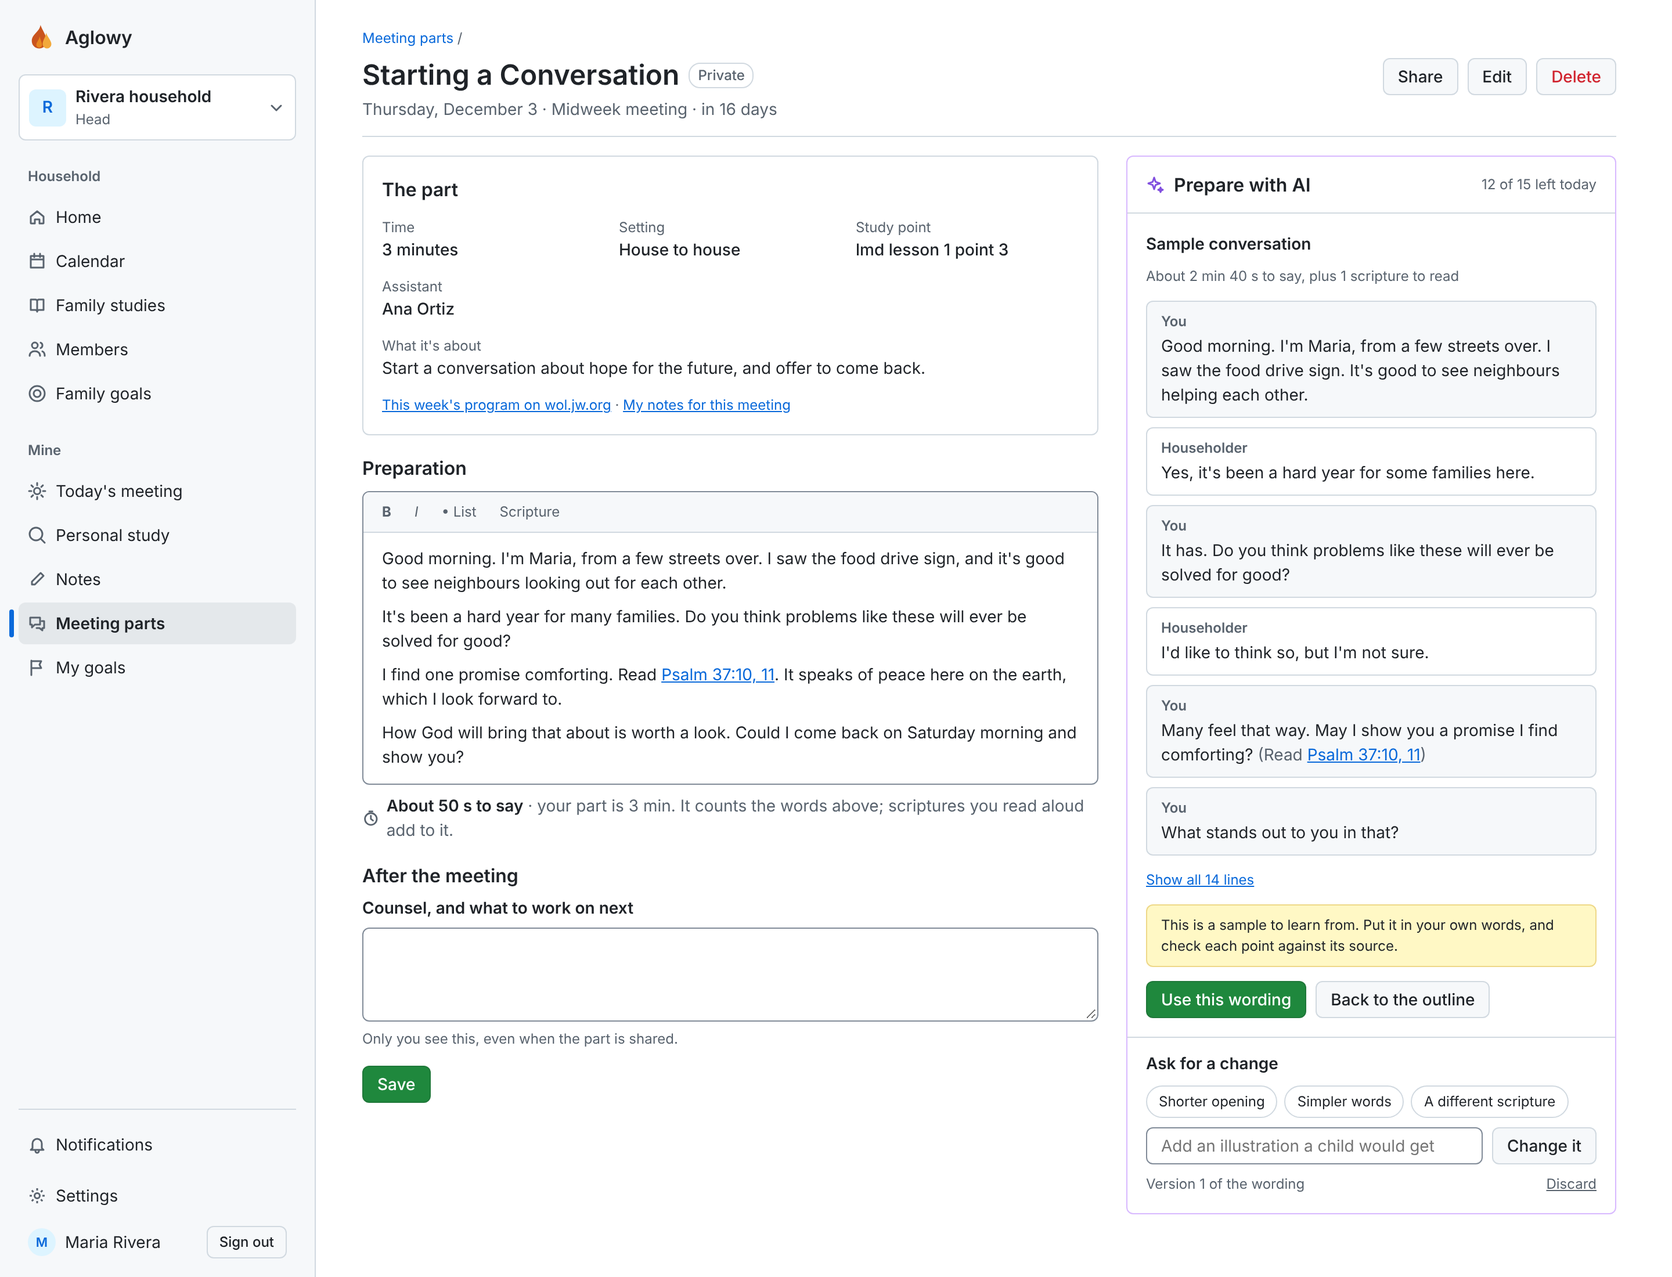
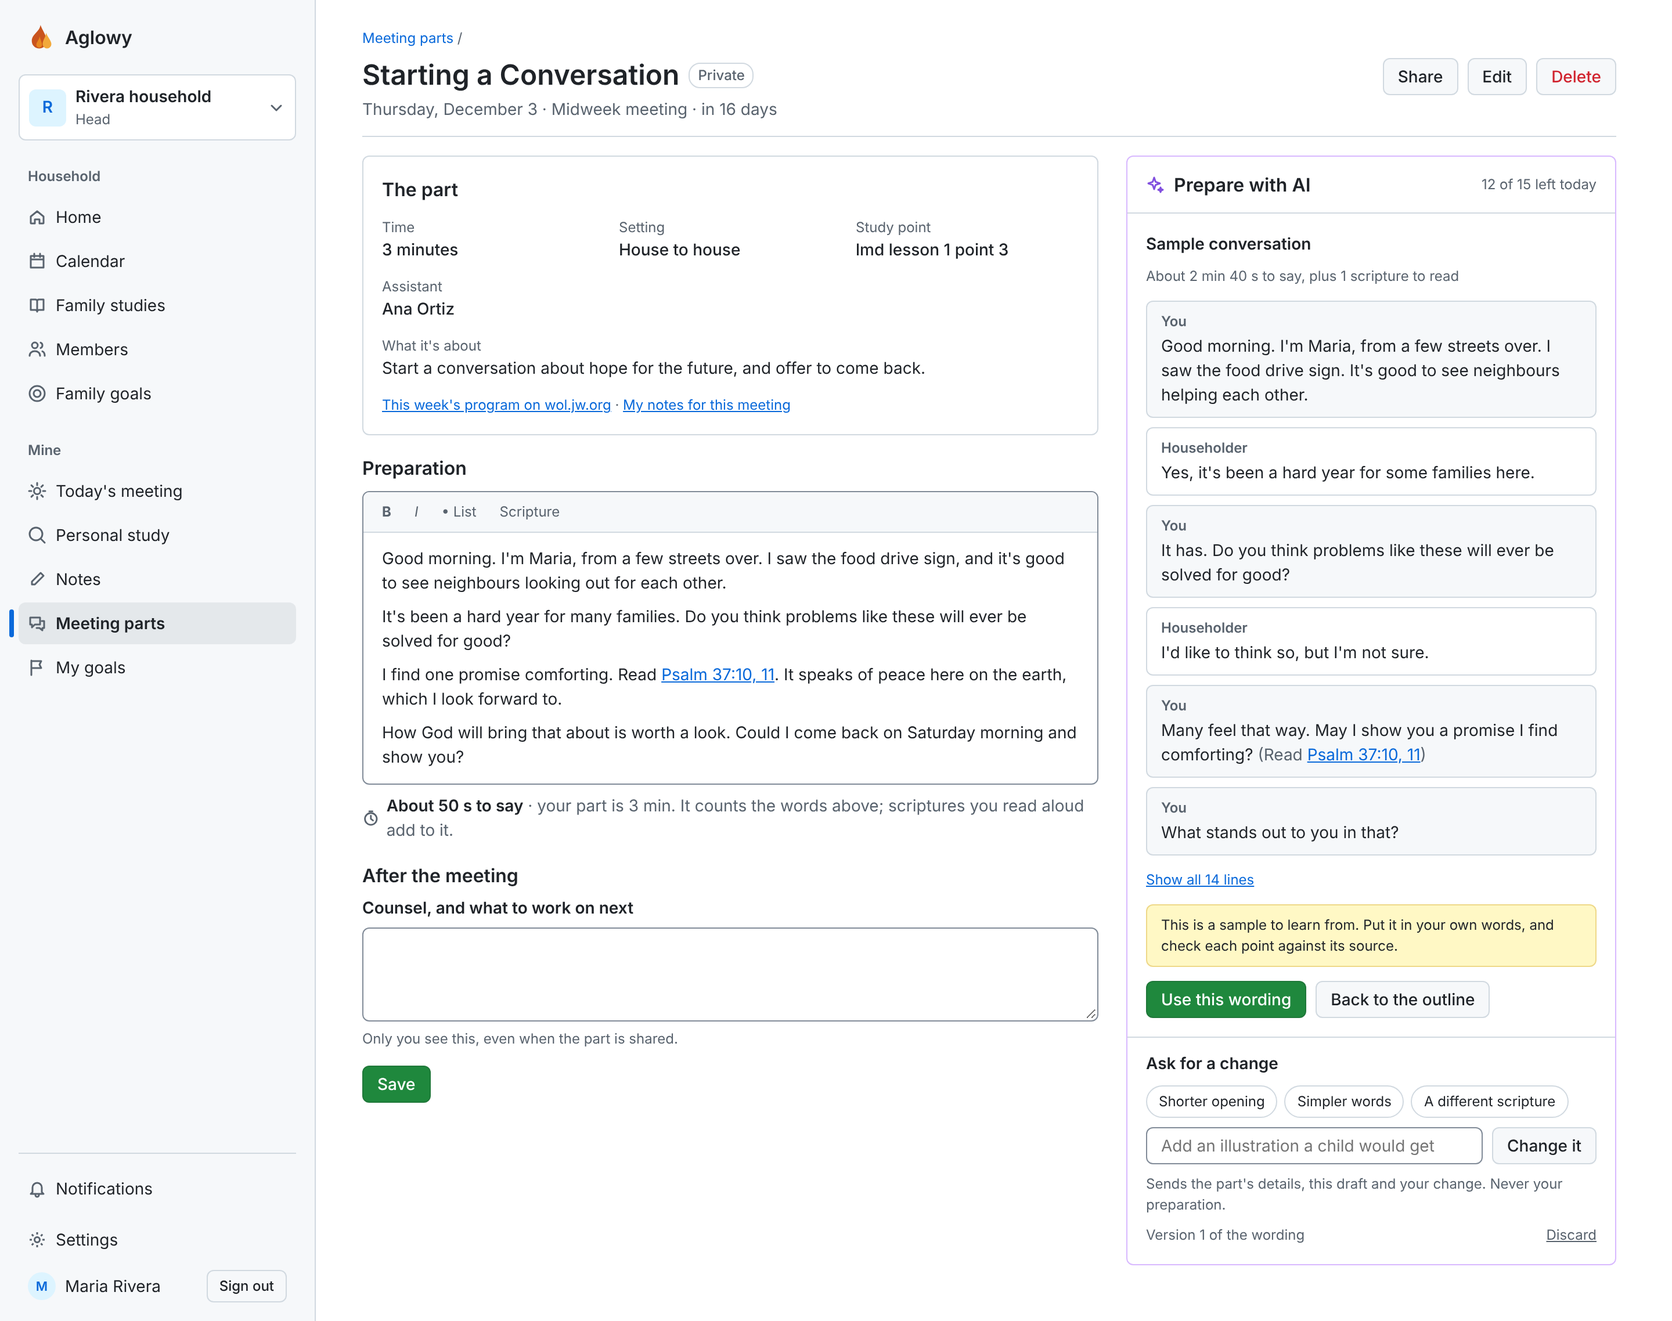
Meeting parts design: one chat per draft, a line per part, what the verse check catches
Review findings on #286:

- Each AI draft has its own chat, as a family study draft does, instead of
  one chat per part. The 60-day purge then deletes a draft with its chat and
  leaves nothing of it behind in a chat a newer draft keeps. No
  context_exchanges, no meeting_parts.chat_id, and no new purge code.
- A change, or sample wording from an outline, sends the checked draft it
  revises, so the AI changes the version on screen. The change box says so
  (frames redrawn).
- The meeting note shows a line for each part that week.
- Trap 4 and ai.md safety measure 5 say what the checks catch: reference
  fields that don't parse, and quotations of more than 5 words. Shorter
  quotations and unquoted verse text rest on the instructions.

Claude-Session: https://claude.ai/code/session_0134z7YhxhHiNN5ED15LNroy

diff --git a/docs/design/meeting-parts.md b/docs/design/meeting-parts.md
@@ -81,7 +81,6 @@ Checked against the jw.org meeting instructions (S-38-E 8/26). The meeting workb
 | `study_point` | string | nullable, encrypted, 80 characters at most | "th study 3", "lmd lesson 1 point 3" |
 | `assistant` | string | nullable, encrypted, 80 characters at most | A name only. It's someone else's, so nothing more is kept |
 | `counsel` | text | nullable, encrypted, 2,000 characters at most | After the meeting |
-| `chat_id` | uuid | FK → chats, nullable, unique, `on_delete: :nullify` | The AI conversation, made with the first draft |
 
 - `has_rich_text :preparation, encrypted: true`, with `ScriptureLinkable`, so references become scripture links on save
 - `include Shareable`, with `MeetingPart::Sharing` (`meeting_part_id`, `household_id`, unique together), like `MeetingNote::Sharing`. Leaving a household ends the shares there for good (`Membership#deactivate`, as for notes and goals)
@@ -106,6 +105,7 @@ One AI request and its checked reply.
 | Column | Type | Constraint | Why |
 | --- | --- | --- | --- |
 | `meeting_part_id` | uuid | FK, not null, `on_delete: :cascade` | |
+| `chat_id` | uuid | FK → chats, not null, unique, `on_delete: :cascade` | Its own conversation: one request and one reply, as a family study draft has. The purge deletes the chat, and the draft goes with it |
 | `user_id` | uuid | FK → users, not null | Who asked; the limit is per person |
 | `kind` | string | not null, check in (`outline`, `wording`) | What was asked for |
 | `request` | text | nullable, encrypted, 500 characters at most | "Anything it should know?", or the change asked for |
@@ -114,6 +114,8 @@ One AI request and its checked reply.
 | `result` | jsonb | encrypted, nullable until drafted | The checked reply fields |
 | `sources` | jsonb | not null, default `[]` | `[{url, title}]` that passed `Ai::SourceLink` |
 
+- `belongs_to :chat, dependent: :destroy`, so deleting a part deletes its drafts' chats with them, not at the next purge.
+- `revises` must be a `drafted` draft of the same part: of the same kind for a change, or an outline for sample wording.
 - `Ai::Use` gains `meeting_part_draft_id` (FK, nullable, unique, `on_delete: :nullify`), used exactly as `question_id` is for personal study: made with the draft, deleted when the draft ends `failed` or `flagged`, kept when the draft or its part is deleted.
 - `draft.spoken_length` counts the words of the result, plus `READ_SECONDS` for each scripture marked to read.
 - `draft.preparation_html` builds notes from our own ERB partial with escaped fields, as `FamilyStudy::Draft#notes_html` does.
@@ -185,7 +187,7 @@ Share opens the same dialog as a meeting note's: "Share with the Rivera househol
 ### On the calendar and the meeting note
 
 - **Calendar.** `Household::Calendar` gains meeting parts: the viewer's own parts and the parts shared with this household, each on its `meeting_on`, at the midweek meeting's time when that day is the household's midweek day, otherwise all day. Titles are "Your part: Starting a Conversation" and "Daniel: Talk". Each links to the part. They're drawn with the meetings and aren't a filter of their own. Today on Home shows them because it reads the same calendar.
-- **The meeting note.** The viewer's own midweek note for that week shows one line under its header: "Your part this week: Starting a Conversation, 3 min", linking to the part.
+- **The meeting note.** The viewer's own midweek note for that week shows a line under its header for each part they have that week, soonest first: "Your part this week: Starting a Conversation, 3 min". Each line links to its own part. It never shows on a note someone else shared.
 
 ## Prepare with AI
 
@@ -196,9 +198,9 @@ Everything in `docs/design/ai.md` applies. This section only adds to it.
 - **Its one job:** help prepare a student part in Apply Yourself to the Field Ministry. Anything else is `off_topic` and gets "This helper only prepares your meeting part."
 - `instructions` in `config/ai/meeting_part.md`; `allowed_hosts` as always; `max_searches` 5
 - `daily_limit` 15 per person, counted from `Ai::Use` rows in the person's time zone under the person's lock, as personal study is
-- `keep_for` 60 days: the daily purge deletes drafts made more than 60 days ago, then any `meeting_part` chat with no drafts left
-- `context_exchanges` 6: only the latest exchanges go with a new request
-- **What's sent:** the part's kind, minutes, setting, topic and study point, the target length in words (`SpokenLength.target_words(minutes)`: four fifths of `minutes × WORDS_PER_MINUTE`, which leaves room for reading scriptures and for pauses), and `request`. **Never** the preparation, the counsel, the assistant's name, the person's name or the household (`docs/design/ai.md`, safety measure 7). The panel says so.
+- `keep_for` 60 days. Each draft has its own chat, so the daily purge that family study drafts use (`Ai::PurgeExpiredChatsJob`) deletes a chat 60 days after it was made, and its draft goes with it. Nothing the AI was sent or wrote is kept longer, however many newer drafts the part has. What the person used is already in their preparation, which is theirs and stays.
+- No `context_exchanges`: a chat holds one request and one reply, so there's no history to trim.
+- **What's sent:** the part's kind, minutes, setting, topic and study point, the target length in words (`SpokenLength.target_words(minutes)`: four fifths of `minutes × WORDS_PER_MINUTE`, which leaves room for reading scriptures and for pauses), and `request`. A change, or sample wording written from an outline, also sends the draft it `revises` (How a request runs). **Never** the preparation, the counsel, the assistant's name, the person's name or the household (`docs/design/ai.md`, safety measure 7). The panel says so.
 - **Moderation** runs on the topic, the study point and the request together.
 
 ### The reply
@@ -215,7 +217,8 @@ One schema with both shapes. The draft's `kind` says which one the instructions 
   - `study_point`: how to work on the study point the person typed; empty when they typed none
 - `wording`:
   - `lines`: 2 to 20, each with `speaker` (`you` or `other`; always `you` in a talk), `text`, and `read` (a scripture to read aloud after the line, or empty)
-- Every string is 500 characters at most. Scriptures are references only: the AI never writes verse text, and a line that reads a scripture says so with `read`, shown as "(Read Psalm 37:10, 11)".
+- Every string is 500 characters at most.
+- Scriptures are references only. The instructions say never to write verse text, and a line that reads a scripture says so with `read`, shown as "(Read Psalm 37:10, 11)". `scripture` and `read` each go through `Bible::Reference.parse`, and one that doesn't parse is dropped while its point or line stays (`docs/design/ai.md`, Scripture references).
 - **Minimum after the checks:** an outline needs its aim and one point; wording needs 4 lines for a demonstration and 2 for a talk. Less than that ends `failed` ("Couldn't make a draft this time. Try again."), and its use is deleted.
 
 ### The panel
@@ -229,7 +232,7 @@ Frames `part-prepare.png`, `part-ai-outline.png` and `part-ai-wording.png`. The 
 | Drafting | Progress lines only, and Stop (`ai-searching.png`) |
 | Outline | The outline with its time ("About 2 min 30 s to say"), the pages it used, the "AI can get things wrong" warning, "Use this outline" and "Write sample wording" |
 | Wording | The lines, labelled You and Householder (or the kind's other speaker; no labels for a talk), with the time ("About 2 min 40 s to say, plus 1 scripture to read"), the warning "This is a sample to learn from. Put it in your own words, and check each point against its source.", "Use this wording" and "Back to the outline" |
-| Ask for a change | Under any draft: three chips that fill the box (Shorter opening, Simpler words, A different scripture), a text box (300 characters) and "Change it". "Version 2 · See version 1", and Discard |
+| Ask for a change | Under any draft: three chips that fill the box (Shorter opening, Simpler words, A different scripture), a text box (300 characters) and "Change it". Under the box: "Sends the part's details, this draft and your change. Never your preparation." Then "Version 2 · See version 1", and Discard |
 | Over the time | A draft more than 15% over the part's time adds: "This runs about 20 s over. Ask for a change to shorten it." It never asks again by itself |
 | Limit reached | "You've used today's 15 requests", and when it resets (`ai-limit.png`) |
 | Off topic | The refusal (`ai-refused.png`) |
@@ -239,17 +242,19 @@ Frames `part-prepare.png`, `part-ai-outline.png` and `part-ai-wording.png`. The 
 `part.draft(kind:, request:, revises:, by: user)` runs inside `user.with_lock`:
 
 - refuses with `:limit` at 15, and with `:not_allowed` unless `may_prepare_parts_with_ai?` and `accepted_ai_terms?`
-- makes the part's chat if it has none, the draft (`drafting`) and its `Ai::Use`, then calls `write_later`
+- makes the draft (`drafting`) with its own chat and its `Ai::Use`, then calls `write_later`
 
 `MeetingPart::WriteDraftJob` → `draft.write_now`, the same five steps as `FamilyStudy::Draft#write_now` (`docs/design/family-studies.md`): moderation; `chat.ask_within_purpose` with progress lines only; the checks; the final status with a conditional update that applies only while `drafting`; one broadcast of the result.
 
-- **A change** is a new draft of the same kind with `revises` set and the change as `request`. It runs in the same chat, so the AI has the draft it's changing. It counts as one request.
+- **A change** is a new draft of the same kind with `revises` set and the change as `request`. It counts as one request.
 - **Write sample wording** is a new `wording` draft that `revises` the outline.
+- **Both send the draft they revise.** The text sent adds that draft's `result`, the fields the checks left and the person sees, as plain text inside the same marked block as the person's own text (`docs/design/ai.md`, safety measure 3). So the AI changes the version on screen, whichever version that is, and never gets back a sentence the checks removed. What the person typed for an earlier version isn't sent again; the draft already reflects it.
+- **Each draft runs in its own chat.** No request depends on an earlier chat, so an old draft can be purged without touching a newer one, and two drafts of one part never share a chat.
 - **Use this outline** and **Use this wording** send nothing to the server. The `ai-draft` Stimulus controller appends `preparation_html` to the Preparation editor, and a "From an AI draft" Label shows beside the heading until the person edits it. The person still presses Save. Nothing records that AI was used.
 
 ## Elsewhere
 
-- **`docs/design/ai.md`:** the `meeting_part` purpose, its limit and `keep_for`; safety measure 8 notes that meeting parts are heads and adults only.
+- **`docs/design/ai.md`:** the `meeting_part` purpose, its limit and `keep_for`; safety measure 5 says what the quotation rule does and doesn't catch; safety measure 8 notes that meeting parts are heads and adults only.
 - **`docs/design/app-shell.md`:** the Mine group gains Meeting parts.
 - **`docs/design/calendar.md`:** meeting parts join what a calendar is put together from.
 - **`docs/design/notifications.md`:** `shared_with_you` covers meeting parts.
@@ -259,18 +264,23 @@ Frames `part-prepare.png`, `part-ai-outline.png` and `part-ai-wording.png`. The 
 ## Traps
 
 1. **Children never reach the AI.** The panel isn't rendered for them, and `Drafts` controllers check `draft?` on every action. Don't add a grant or a setting.
-2. **Send only the part's five details and the request.** Not the preparation, and not the assistant's name, even though both are on the same page.
+2. **Send only the part's five details, the request and, for a change or sample wording, the draft it revises.** Not the preparation, and not the assistant's name, even though both are on the same page. The draft sent is its checked `result`, never what the person made of it in Preparation.
 3. **Counsel never leaves the owner.** The shared view, the calendar and notifications never include it.
-4. **No verse text.** The wording says "(Read …)" and stops. The copy check's quotation rule (`docs/design/ai.md`, safety measure 5) removes a quoted verse if the AI writes one anyway.
+4. **No verse text.** The wording says "(Read …)" and stops. Two checks back the instructions up, and neither is complete:
+   - `scripture` and `read` hold a reference or nothing. One that doesn't parse as a reference, verse text included, is dropped (`docs/design/ai.md`, Scripture references).
+   - In every other field, the copy check's quotation rule (`docs/design/ai.md`, safety measure 5) removes a sentence holding a quotation of more than 5 words.
+   - A quotation of 5 words or fewer, and verse text written without quotation marks, pass both. Aglowy never fetches verse text, so it has nothing to compare them against. Those rest on the instructions and on the warning shown with every draft.
 5. **Don't show a draft's text while it's drafting,** and don't let a finished job override Stop (`docs/design/ai.md`, Traps).
 6. **The time line is a guide.** Don't block a save, or an AI draft, for being over.
 7. **A shared part is found through `MeetingPart.shared_with(Current.household)`,** which also checks the owner is still active there. Another household's part is a 404.
 8. **Don't enforce who may give which part.** That's the congregation's decision, not Aglowy's.
+9. **One chat per draft.** Don't run a change in the chat of the draft it revises. A shared chat would keep an old draft's text past its 60 days, and would hand the AI its own unchecked reply instead of the draft the person sees.
 
 ## States each story checks
 
 - Person: head, adult, child with a login (no AI), a member reading a shared part, a non-member (404), not yet accepted the AI terms
 - Part: each of the six kinds; with and without a setting, study point and assistant; coming up, today, earlier; shared, not shared, shared then stopped
 - Time line: no words (hidden), under the time, over the time
-- AI: an outline, wording for a demonstration and for a talk, a change, off topic, flagged, provider error, a quoted verse (removed), too thin, stopped, 14 used and 15 used, a new day in the person's time zone
+- AI: an outline, wording for a demonstration and for a talk, a change (the draft it revises is sent, and it's the version shown), off topic, flagged, provider error, a quotation of more than 5 words (removed), a `scripture` or `read` that isn't a reference (dropped), too thin, stopped, 14 used and 15 used, a new day in the person's time zone
+- Kept: a draft 61 days old goes with its chat while a newer draft of the same part stays; deleting a part deletes its drafts and their chats; the preparation stays either way
 - Desktop and phone; light and dark

diff --git a/docs/design/ai.md b/docs/design/ai.md
@@ -25,7 +25,7 @@ RubyLLM's Rails models, as `CLAUDE.md` asks (`acts_as_chat`, `acts_as_message`).
 | `chats` | `purpose` (string, not null, check in the known purposes) | Which `Ai::Purpose` it ran under: `family_study_draft`, `personal_study` (`docs/design/personal-study.md`) and `meeting_part` (`docs/design/meeting-parts.md`) |
 | `messages` | `content` encrypted (`encrypts :content`) | Prompts and replies are private family text, like notes |
 
-A feature's own record points at its chat (`FamilyStudy::Draft belongs_to :chat`) and keeps the feature's data. The chat keeps only the conversation.
+A feature's own record points at its chat (`FamilyStudy::Draft belongs_to :chat`) and keeps the feature's data. The chat keeps only the conversation. A draft has a chat of its own, one request and one reply (family study drafts, meeting part drafts), so the purge can delete it without touching another draft. Only a personal study keeps one chat for many questions.
 
 ### What each feature is allowed to do: `Ai::Purpose`
 
@@ -91,7 +91,7 @@ Every AI feature has all of these. A feature's design doc only adds to them.
 5. **No copying, checked before anyone sees the reply.** The instructions say to write in its own words and never to quote pages or verse text. `Ai::CopyCheck` then runs on every text field of the finished reply, before any of it is shown or saved:
    - **Measuring.** Text is compared as words: lower-cased, with punctuation removed and runs of whitespace treated as one space.
    - **Overlap with a source.** A sentence that shares 8 or more consecutive words with any citation's `cited_text` is removed.
-   - **Quotations and verse text.** A sentence holding a quotation (text in straight or curly quotation marks) longer than 5 words is removed, whatever its source. Aglowy has no verse text to compare against, because it never fetches it, so a quoted scripture is caught by this rule and by the instructions. References stay; only the quoted words go.
+   - **Quotations and verse text.** A sentence holding a quotation (text in straight or curly quotation marks) longer than 5 words is removed, whatever its source. Aglowy has no verse text to compare against, because it never fetches it. So a quoted scripture of more than 5 words is caught by this rule. A shorter one, and verse text written without quotation marks, rest on the instructions alone. References stay; only the quoted words go.
    - **Policy values.** 8 words and 5 words live on `Ai::Purpose` (`copy_overlap_words`, `quote_max_words`) and are Casey's call to tune.
    - **Too thin.** Each purpose sets its minimum. A family study draft fails when the checks leave fewer than 2 points ("Couldn't make a draft this time. Try again."). A personal study answer fails when they leave no paragraphs; a `not_found` note with no paragraphs is a valid answer (`docs/design/personal-study.md`).
    - **What it can't see.** `cited_text` is a short excerpt (up to about 150 characters per citation), so the check can only compare against what the search returned. The instructions, the quotation rule and "AI can get things wrong. Check each point against its source" cover the rest.
@@ -100,7 +100,7 @@ Every AI feature has all of these. A feature's design doc only adds to them.
 7. **Never send more than the request needs.** Only what the person typed and the feature's options go to the provider. Never names, household names, notes, goals or other records. The prompt box says so.
 8. **Heads and adults, unless a feature decides otherwise.** Children don't see AI features by default, and the policies refuse them. Personal study is the one exception so far: a head can allow it per child, and then can read everything in that child's personal studies (`docs/design/personal-study.md`). Meeting part help (`docs/design/meeting-parts.md`) is for heads and adults only, with no switch for children (Casey, 17 Nov). Any other feature for children needs its own decision.
 9. **Limits.** Each purpose sets a daily limit, counted under a lock so two requests at once can't both take the last one. A household limit (family study drafts) counts inside the household lock. A per-person limit (personal study) counts inside the person's lock (`user.with_lock`), because a person can ask from more than one household at once. A request that failed at the provider, or was stopped by moderation, doesn't count.
-10. **Kept only as long as the purpose says.** Each purpose's `keep_for` decides. Family study drafts and their chats are deleted after 7 days by a daily recurring job (`config/recurring.yml`), and what the person chose to use is copied into their own records first. Personal studies are the person's own records and are kept until they delete them. The job only deletes purposes with a `keep_for`.
+10. **Kept only as long as the purpose says.** Each purpose's `keep_for` decides. Family study drafts and their chats are deleted after 7 days, and meeting part drafts and their chats after 60, by a daily recurring job (`config/recurring.yml`). What the person chose to use is copied into their own records first. Personal studies are the person's own records and are kept until they delete them. The job only deletes purposes with a `keep_for`.
 
 ## Privacy and cost
 
